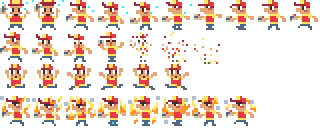
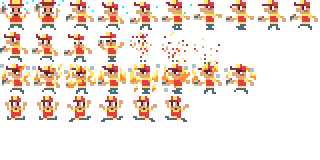
fix faling animation flicker

diff --git a/src/entities/postman.ts b/src/entities/postman.ts
@@ -44,7 +44,7 @@ kontra.on(EventType.LOADING_COMPLETE, () => {
     frameHeight: 32,
     animations: {
       falling: {
-        frames: "20..25",
+        frames: "30..35",
         frameRate: 12,
       },
       walking: {
@@ -52,7 +52,7 @@ kontra.on(EventType.LOADING_COMPLETE, () => {
         frameRate: 12,
       },
       burning: {
-        frames: "30..37",
+        frames: "20..27",
         frameRate: 12,
       },
     },
@@ -99,6 +99,7 @@ export default class PostmanSprite extends SpriteClass {
         this.ddy = 0.1;
         this.dx = 0;
         this.playAnimation("falling");
+        this.setScale(1, 1);
         break;
 
       case PostmanState.WALKING_LEFT:
